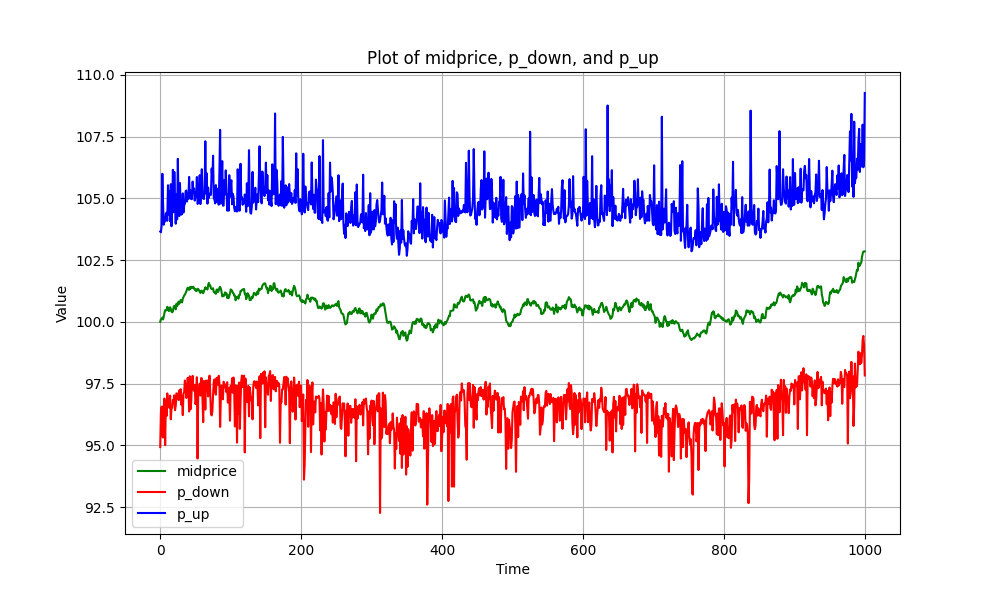
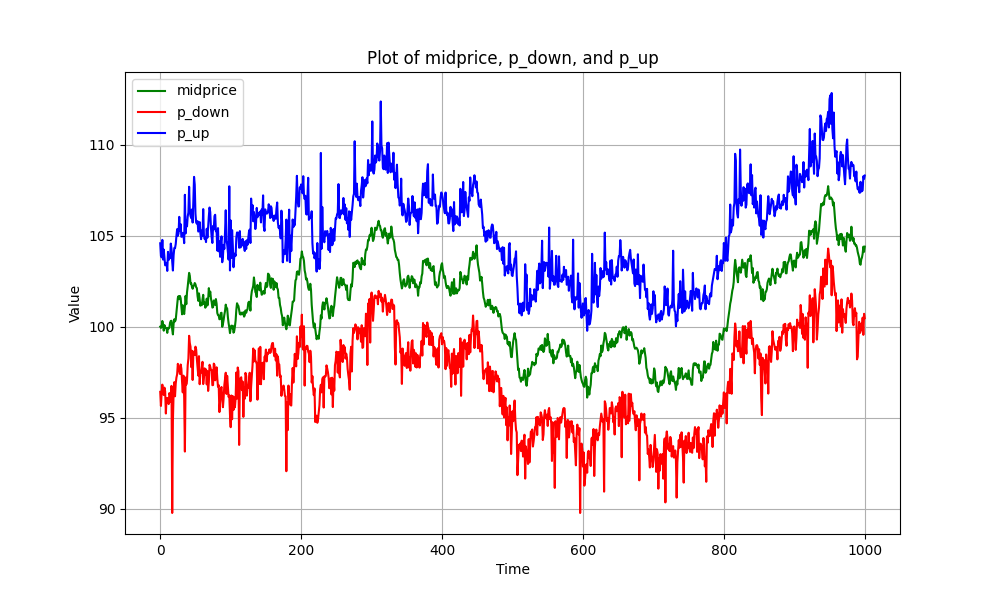
limit order book

diff --git a/classes/limit_order_book.py b/classes/limit_order_book.py
@@ -1,0 +1,128 @@
+import numpy as np
+import matplotlib.pyplot as plt
+
+class LimitOrderBookSimulator:
+    def __init__(self, S0, T, dt, sigma, Lambda, alpha=1.53):
+        """
+        Initialize the stock price simulator.
+
+        Parameters:
+        S0 (float): Initial stock price.
+        T (float): Total time period.
+        dt (float): Time step size.
+        sigma (float): Standard deviation of the Brownian motion.
+        """
+        self.S0 = S0        # Initial stock price
+        self.T = T          # Total time period
+        self.dt = dt        # Time step size
+        self.sigma = sigma  # Standard deviation
+        self.N = int(T / dt)  # Number of time steps
+        self.Lambda = Lambda  # Frequency of orders
+        self.alpha = alpha  # Parameter of the distribution of the volume of orders
+        self.bids = np.array([]) # vector of the bids
+        self.asks = np.array([]) # vector of the ask
+
+    def sample_orders(self, x0=1.0, size=1):
+        """
+        Sample from a density function proportional to x^(-1 - a).
+
+        Parameters:
+        a (float): Positive parameter of the density function.
+        x0 (float): Lower bound of x (x ≥ x0). Default is 1.0.
+        size (int): Number of samples to generate. Default is 1.
+
+        Returns:
+        numpy.ndarray or float: Sample(s) drawn from the distribution.
+        """
+        # Generate uniform random numbers between 0 and 1
+        U = np.random.uniform(0, 1, size)
+        # Inverse transform sampling formula
+        x = x0 * (1 - U) ** (-1 / self.alpha)
+        # Return single value if size is 1
+        return x if size > 1 else x[0]
+    
+    def simplify(self):
+        '''
+        Simplify ask and bids so that the vectors remain disjoint
+        '''
+        m = min(len(self.asks), len(self.bids))
+        i = 0
+
+        while i < m:
+            if self.bids[-i-1] > self.asks[i]:
+                i += 1
+            else:
+                break
+        
+        if i>0:
+            self.bids = self.bids[:-i]
+            self.asks = self.asks[i:]
+            print('{} selling completed'.format(i))
+
+
+    def simulate(self):
+        """
+        Simulate the evolution of the stock price.
+
+        Returns:
+        np.ndarray: Array of stock prices at each time step.
+        """
+
+        # Initialize stock price array
+        S = np.zeros(self.N + 1)
+        S[0] = self.S0
+
+        # Initialize queue length
+        queue_len = np.zeros(self.N + 1)
+        queue_len[0] = 0
+
+        # Create vectors for the random number of buy/sell orders
+        sell_orders = self.Lambda*self.sample_orders(size=self.N+1)
+        buy_orders = self.Lambda*self.sample_orders(size=self.N+1)
+
+        for i in range(self.N):
+            # Compute delta_bid values
+            delta_bids = np.random.exponential(size=int(sell_orders[i]))
+            delta_asks = np.random.exponential(size=int(buy_orders[i]))
+            shift = np.random.normal(0,self.sigma)
+
+            # Center the order w.r.t. the mean
+            new_bids = S[i] - delta_bids + shift
+            new_asks = S[i] + delta_asks + shift
+
+            self.bids = np.sort(np.append(self.bids, new_bids))
+            self.asks = np.sort(np.append(self.asks, new_asks))
+
+            self.simplify()
+            S[i+1] = (self.bids[-1] + self.asks[0])/2
+            queue_len[i+1] = len(self.bids) + len(self.asks)
+
+        return S, queue_len
+
+    def simulate_and_plot(self):
+        '''
+        Calls the simulator and plot the results
+        '''
+        S, queue_len = self.simulate()
+
+        fig, (ax1, ax2) = plt.subplots(2, 1, figsize=(15, 7))
+
+        # Plot on the first subfigure
+        ax1.plot(S, label='midprice', color='green')
+
+        # Plot options
+        ax1.set_xlabel('Time')
+        ax1.set_ylabel('Value')
+        ax1.set_title('Plot of midprice')
+
+        # Plot on the second subfigure
+        ax2.plot(queue_len, label='queue_len', color='C0')
+
+        # Plot options
+        ax2.set_xlabel('Time')
+        ax2.set_ylabel('Length')
+        ax2.set_title('Len of the queue (sum of ask and bid)')
+
+        plt.tight_layout()  # Adjust layout to prevent overlap
+        plt.savefig('figures/limit_order_simulation.png')
+        plt.show()

diff --git a/main.py b/main.py
@@ -1,11 +1,15 @@
 from classes.stock_simulator import StockPriceSimulator
+from classes.limit_order_book import LimitOrderBookSimulator
 
 S0 = 100        # Initial stock price
 T = 1000         # Total time period
 dt = 1        # Time step size
-sigma = 0.1  # Standard deviation
+sigma = 0.005*S0  # Standard deviation
 N = int(T / dt)  # Number of time steps
-Lambda = 30  # Frequency of orders
+Lambda = 10  # Frequency of orders
 
-simulator = StockPriceSimulator(S0, T, dt, sigma, Lambda)
+simulator = LimitOrderBookSimulator(S0, T, dt, sigma, Lambda)
 simulator.simulate_and_plot()
+
+# queue of len fixed
+# new asks and bids arrive according to Poiusson process
